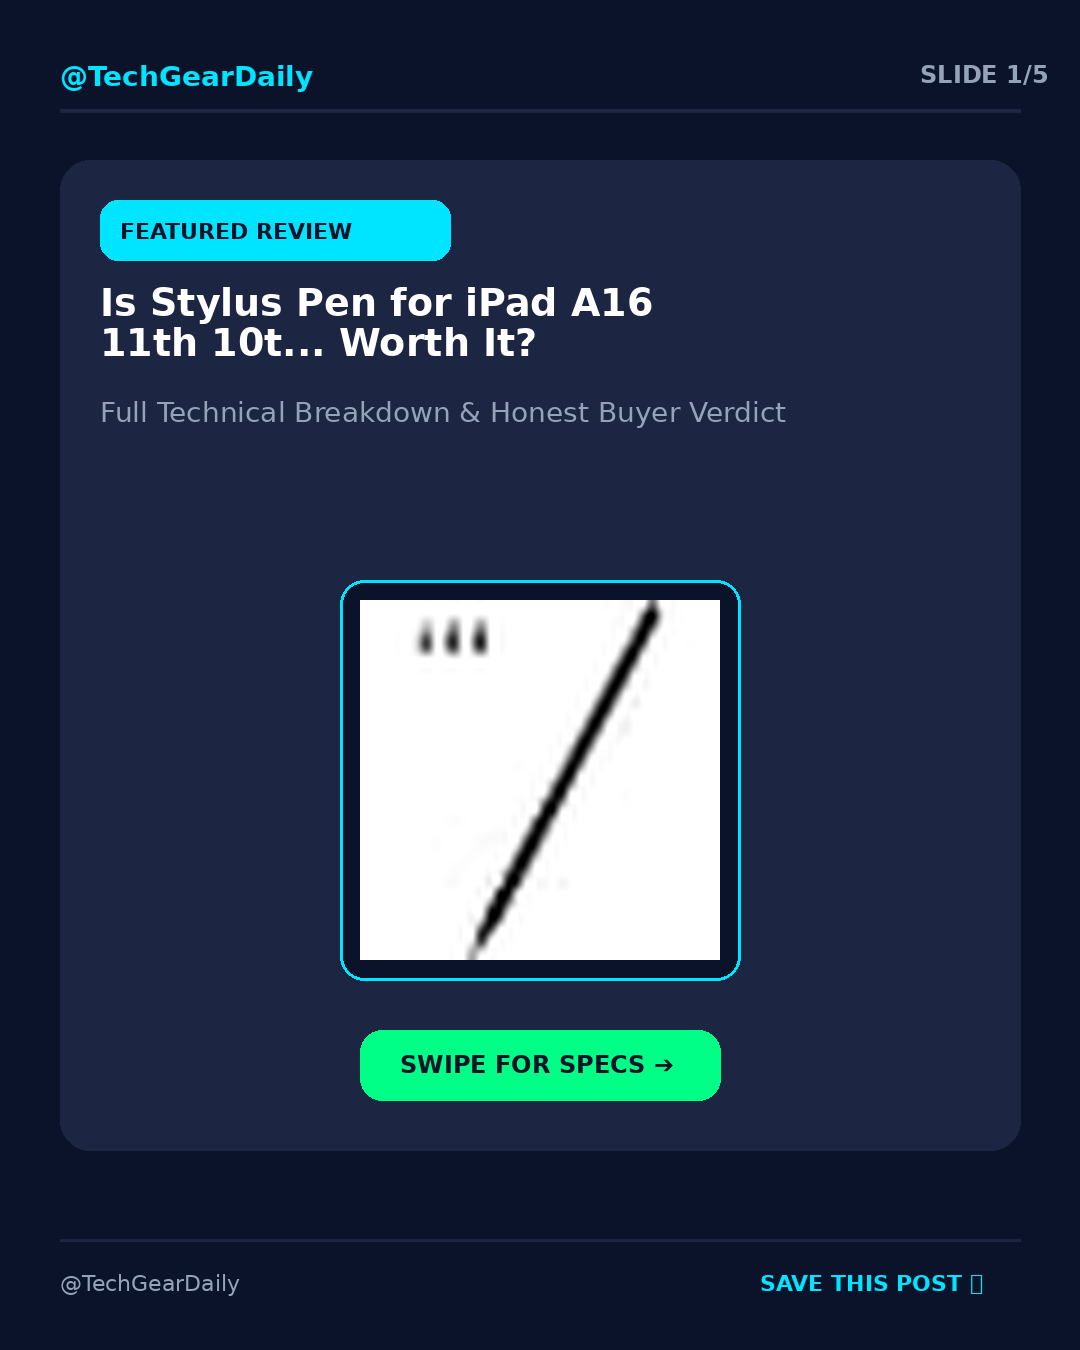
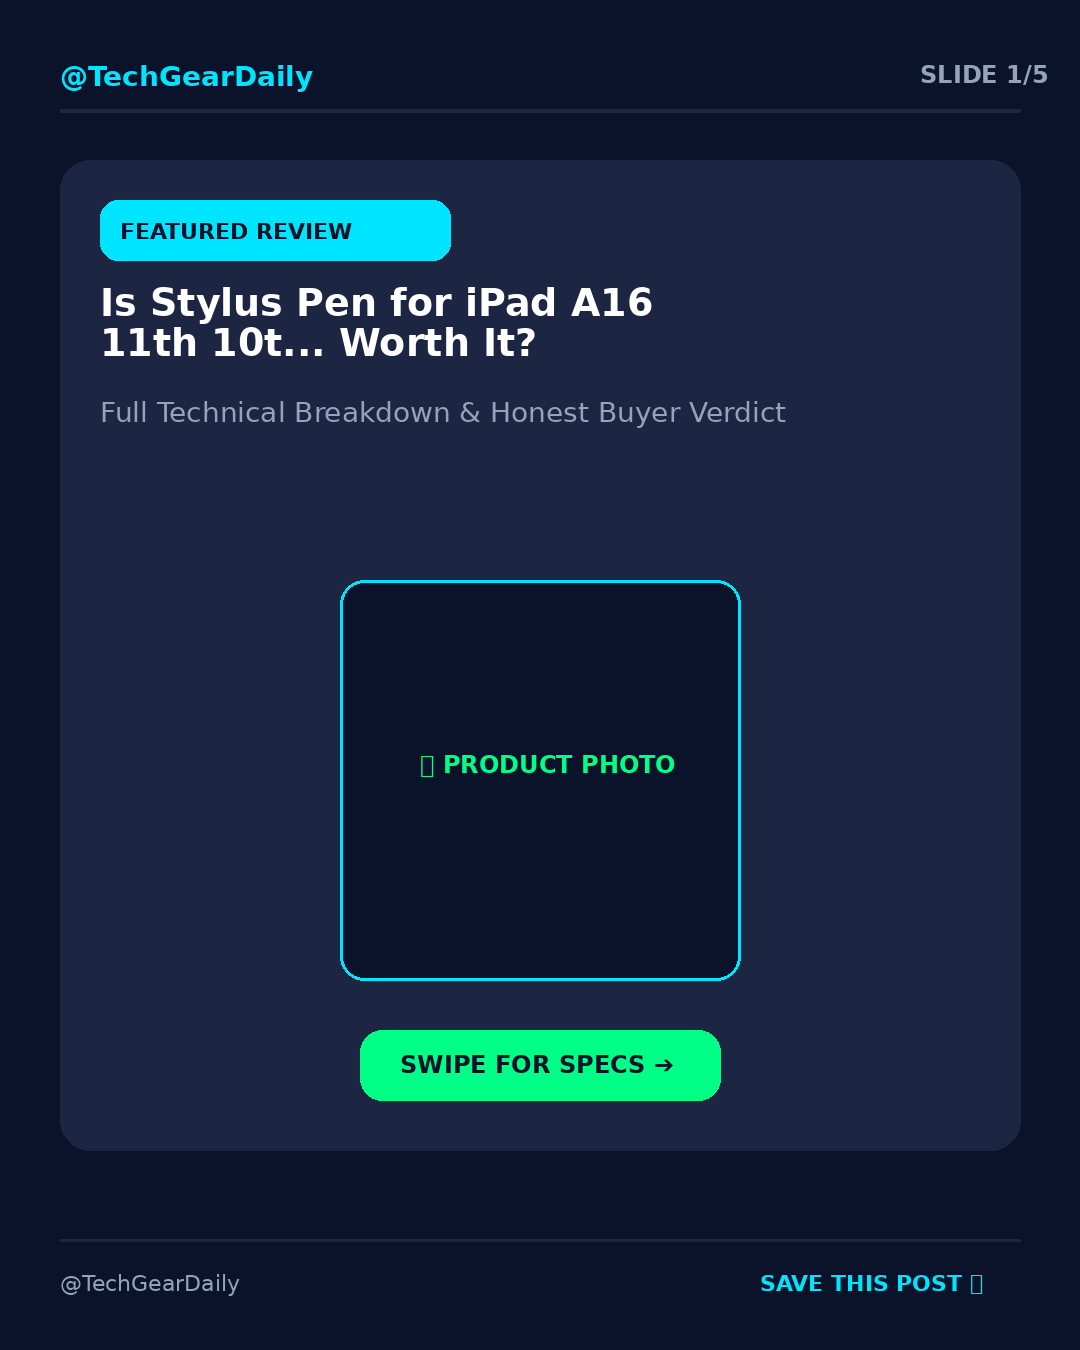
Fix Pillow mask bug so product photo is 100% visible inside photo box on Slide 1

Changed region(s): [[0.3361, 0.4356, 0.6722, 0.7156]]

diff --git a/core/composer.py b/core/composer.py
@@ -60,16 +60,19 @@ def get_font(size: int, bold: bool = False):
     except Exception:
         return ImageFont.load_default()
 
-def fetch_product_image(image_url: Optional[str], target_size: tuple = (400, 400)) -> Optional[Image.Image]:
+def fetch_product_image(image_url: Optional[str], target_size: tuple = (360, 360)) -> Optional[Image.Image]:
     """
     Fetches and resizes real product image over HTTP.
     """
     if not image_url:
         return None
     try:
-        res = requests.get(image_url, headers={"User-Agent": "Mozilla/5.0"}, timeout=5)
-        if res.status_code == 200:
-            img = Image.open(io.BytesIO(res.content)).convert("RGBA")
+        res = requests.get(image_url, headers={"User-Agent": "Mozilla/5.0 (Macintosh; Intel Mac OS X 10_15_7)"}, timeout=6)
+        if res.status_code == 200 and len(res.content) > 1000:
+            img = Image.open(io.BytesIO(res.content))
+            # Convert to RGB to flatten transparency issues for JPEGs/PNGs
+            if img.mode != "RGB":
+                img = img.convert("RGB")
             img = ImageOps.fit(img, target_size, method=Image.Resampling.LANCZOS)
             return img
     except Exception as e:
@@ -131,7 +134,8 @@ def render_slide_card(
         draw.rounded_rectangle(photo_box, radius=24, fill=palette["bg"], outline=palette["accent"], width=3)
 
         if prod_img:
-            img.paste(prod_img, (width // 2 - 180, 600), prod_img)
+            # Paste RGB product image directly onto canvas
+            img.paste(prod_img, (width // 2 - 180, 600))
         else:
             draw.text((width // 2 - 120, 750), "📷 PRODUCT PHOTO", fill=palette["accent_secondary"], font=get_font(24, bold=True))
 
